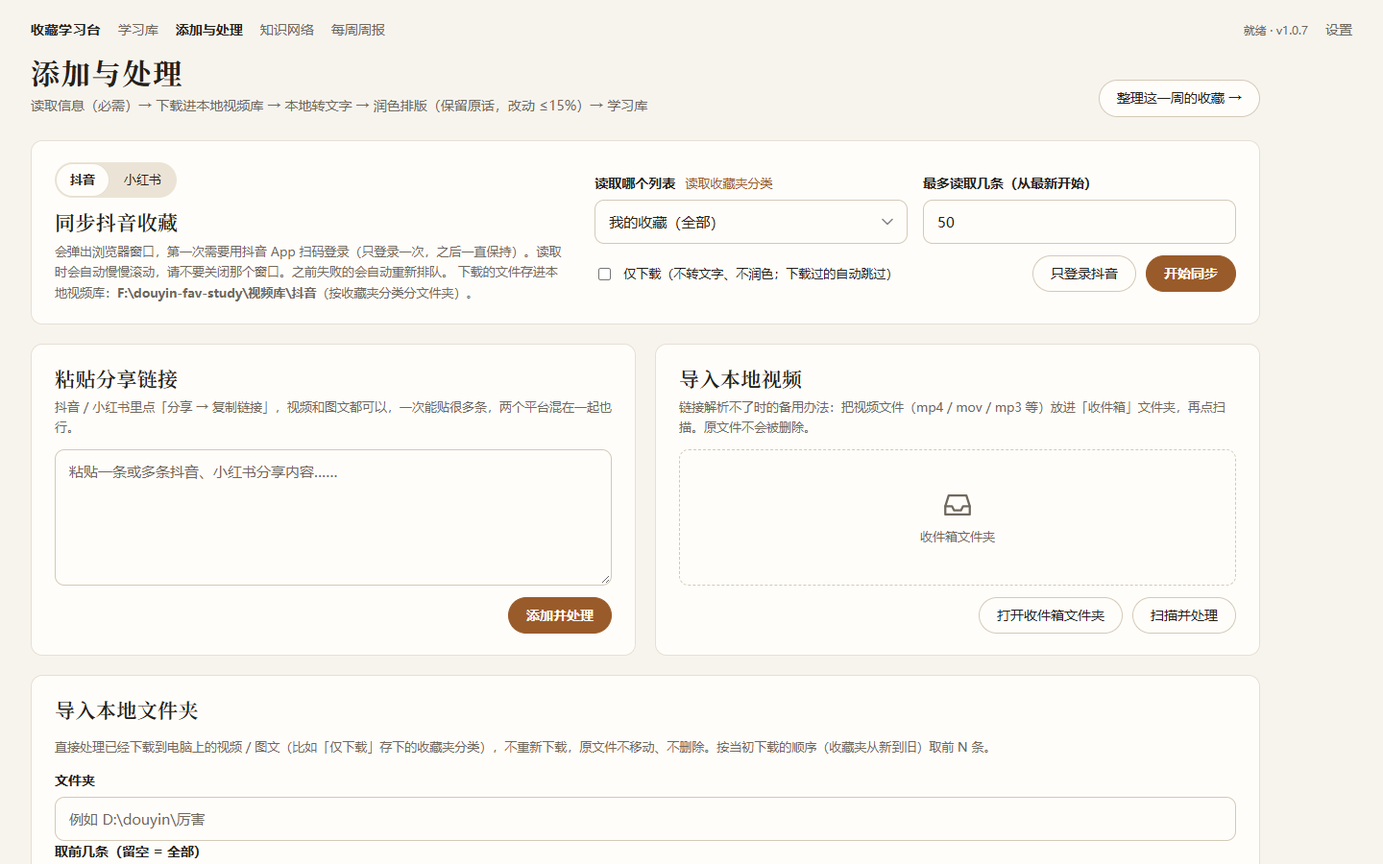
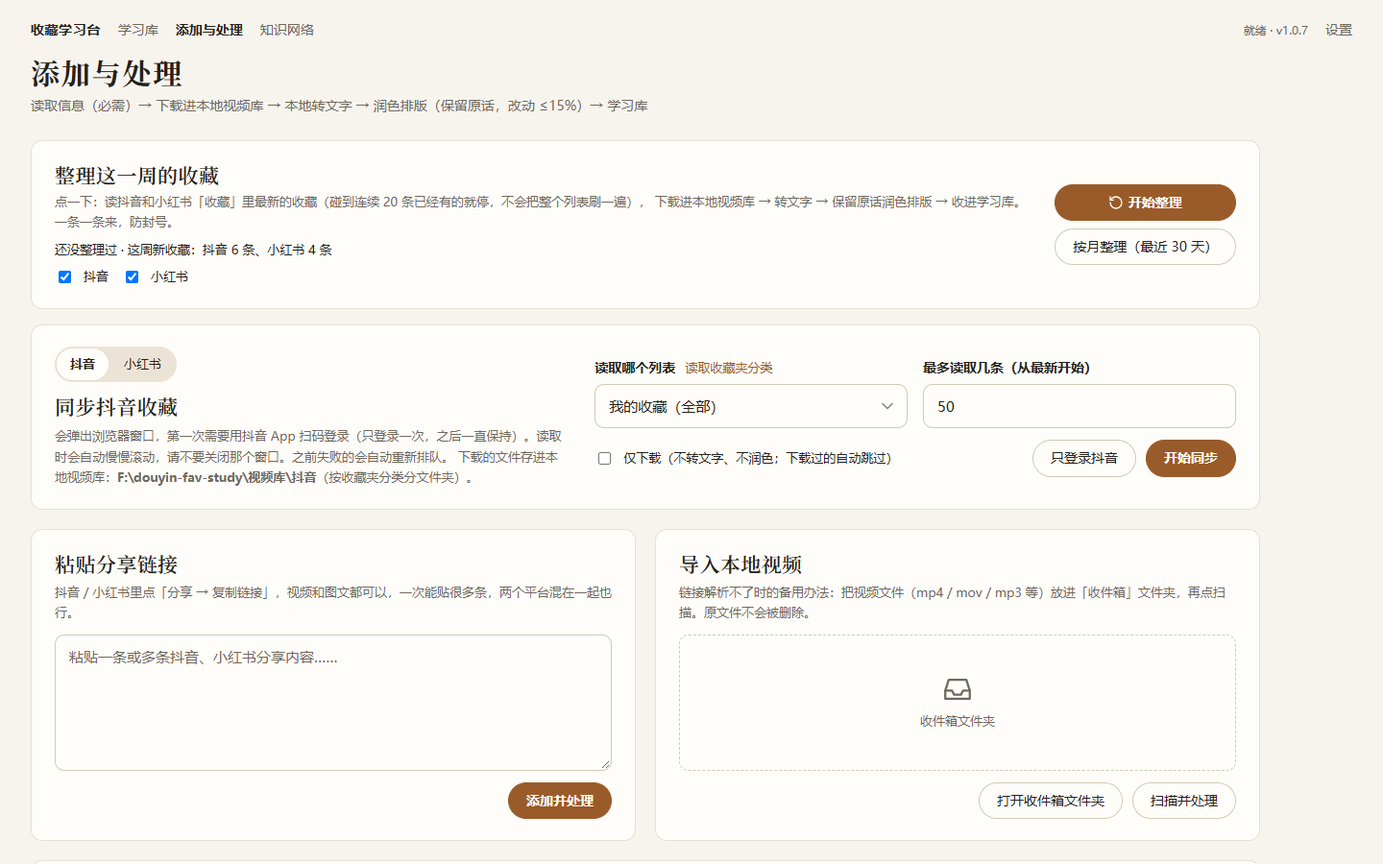
硬盘断线后自动重连；整理这一周挪到添加与处理；已跳过最近 50 条；加入专题自动填好
硬盘断线
- 数据库在 USB 移动硬盘上时，硬盘断开又连上以后后台线程的旧连接会一直报 disk I/O error。
  现在后台每做一件事之前换新连接（db.reset），做到一半遇到这个错误会重连并自动再试一次

界面
- 顶部导航和学习库信息条去掉「每周周报」入口；「整理这一周 / 按月整理」卡片放到「添加与处理」最上面
- 「已跳过」最前面加一组「最近 50 条」
- 「最近」里的文章保留「＋专题」；作者那一行的按钮统一靠右
- 加入专题时，新建专题按选中文章的大类和小主题自动填好（不带收藏分类那一级），两个框都能改；
  分类用 › 或 / 分级，没有的自动建，已有同名专题直接加进去

文档
- README 更新周报、最近相关的描述；截图按新导航重拍，周报截图换成「最近」

diff --git a/app/static/app.js b/app/static/app.js
@@ -728,9 +728,10 @@ async function renderProcess() {
   if (!syncPlat) syncPlat = s.sync_platform || "douyin";
   view.innerHTML = `
     <div class="head"><div><h1>添加与处理</h1><div class="muted">读取信息（必需）→ 下载进本地视频库 → 本地转文字 → 润色排版（保留原话，改动 ≤${s.max_change_pct || 15}%）→ 学习库</div></div>
-      <div class="spacer"></div><a class="btn" href="#/weekly">整理这一周的收藏 →</a></div>
+      </div>
     <div id="errSlot">${lastErrorBanner()}</div>
     ${bannerHtml()}
+    <div class="card weekly-sync" id="wkCard"></div>
     <div class="card sync-card">${syncCardHtml(s)}</div>
     <div class="panels">
       <div class="card col-card">
@@ -807,10 +808,56 @@ async function renderProcess() {
     } catch (e) { toast(e.message); }
   };
   $("#inboxScan").onclick = async () => { const r = await api("/api/inbox", {}); toast(r.added ? `新增 ${r.added} 个文件，开始处理` : "收件箱里没有新文件"); renderProcessLive(); };
+  drawWeekSync(); loadWeekInfo();
   renderProcessLive();
 }
 
+// ---- 整理这一周的收藏：一键把最近的新收藏下载、转写、润色进学习库（原来在「每周周报」页，现在放在这一页最上面）
+let wkInfo = null, wkKey = "";
+function weekSyncHtml() {
+  const r = wkInfo || {}, w = STATE?.worker || {}, running = w.task === "weekly_sync";
+  const when = (t) => new Date(t * 1000).toLocaleString("zh-CN", { hour12: false });
+  return `<div style="flex:1;min-width:240px"><h2 style="margin:0 0 4px">整理这一周的收藏</h2>
+      <div class="muted small">点一下：读抖音和小红书「收藏」里最新的收藏（碰到连续 20 条已经有的就停，不会把整个列表刷一遍），
+        下载进本地视频库 → 转文字 → 保留原话润色排版 → 收进学习库。一条一条来，防封号。</div>
+      <div class="small" style="margin-top:8px">${r.last_sync ? `上次整理：${when(r.last_sync)}` : wkInfo ? "还没整理过" : ""}
+        ${Object.keys(r.fav_new || {}).length ? ` · 这周新收藏：${Object.entries(r.fav_new).map(([p, n]) => `${PNAME[p] || p} ${n} 条`).join("、")}` : ""}</div>
+      <div class="row small" style="margin-top:8px;gap:14px">${["douyin", "xhs"].map((p) => `<label class="check"><input type="checkbox" class="wkPlat" value="${p}" checked> ${PNAME[p]}</label>`).join("")}</div>
+    </div>
+    ${running ? `<div class="row"><div class="spinner"></div><span class="small">${esc(w.stage || "整理中…")}</span><button class="btn sm danger" id="wkStop">停止整理</button></div>`
+      : `<div style="display:flex;flex-direction:column;gap:8px;align-items:stretch">
+           <button class="btn primary" id="wkSync">${ico("retry")}开始整理</button>
+           <button class="btn" id="wkMonth" title="抖音：按收藏时间，把最近 30 天收藏的全部过一遍。小红书接口不给收藏时间：读到连续 20 条以前就有的（旧库导入的、或 30 天前就见过的）就停，比每周整理多往下看一点">按月整理（最近 30 天）</button>
+           ${r.last_monthly ? `<span class="muted small">上次按月：${new Date(r.last_monthly * 1000).toLocaleDateString("zh-CN")}</span>` : ""}</div>`}`;
+}
+function drawWeekSync() {
+  const el = $("#wkCard");
+  if (!el) return;
+  const had = $$(".wkPlat"), checked = had.length ? had.filter((c) => c.checked).map((c) => c.value) : ["douyin", "xhs"];
+  el.innerHTML = weekSyncHtml();
+  $$(".wkPlat").forEach((c) => (c.checked = checked.includes(c.value)));  // 页面几秒重画一次，勾选不能丢
+  wkKey = JSON.stringify([STATE?.worker?.task === "weekly_sync", STATE?.worker?.stage, wkInfo?.last_sync]);
+  const start = async (full) => {
+    const platforms = $$(".wkPlat").filter((c) => c.checked).map((c) => c.value);
+    if (!platforms.length) return toast("至少选一个平台");
+    const ready = await loginGate(platforms);
+    if (!ready || !ready.length) return;
+    await api("/api/weekly/sync", full ? { platforms: ready, full: true, days: 30 } : { platforms: ready });
+    toast(full ? "开始按月整理：把最近 30 天的收藏完整过一遍，进度在下面" : "开始整理这一周的收藏：会弹出浏览器窗口读收藏列表，进度在下面", 4000);
+    await refreshState(); drawWeekSync(); renderProcessLive();
+  };
+  $("#wkSync") && ($("#wkSync").onclick = () => start(false));
+  $("#wkMonth") && ($("#wkMonth").onclick = () => start(true));
+  $("#wkStop") && ($("#wkStop").onclick = async () => {
+    const b = $("#wkStop"); b.disabled = true; b.textContent = "正在停止…";
+    await api("/api/stop", {}).catch(() => {});
+    toast("已发出停止：正在读的列表马上停，正在转写的这一条做完就停", 4000);
+  });
+}
+function loadWeekInfo() { api("/api/weekly?offset=0").then((r) => { wkInfo = r; drawWeekSync(); }).catch(() => {}); }
+
 // 已跳过的大类（按跳过原因归）
+const RECENT_SKIP = "最近 50 条";  // 特殊的一组：最新被跳过的 50 条（不管原因），放最前面、默认展开
 const SKIP_GROUPS = [
   ["重复", /重复/], ["视频已删除 / 私密", /已删除或设为私密/], ["超过 15 分钟的长视频", /分钟的长视频|长视频/],
   ["画面为主 / 没说话", /几乎没有说话|画面为主|没有声音|纯音乐|无对白/],
@@ -818,7 +865,7 @@ const SKIP_GROUPS = [
   ["以前的旧收藏（没处理过）", /以前就收藏的旧条目/], ["图文没内容", /图片|图文|文字（可能/],
   ["广告", /广告/], ["其他", /.*/],
 ];
-const SKIP_OPEN = new Set();  // 已跳过里点开的分组：页面几秒刷新一次，刷新后保持展开
+const SKIP_OPEN = new Set([RECENT_SKIP]);  // 已跳过里点开的分组：页面几秒刷新一次，刷新后保持展开
 const skipGroup = (reason) => (SKIP_GROUPS.find(([, re]) => re.test(reason || "")) || ["其他"])[0];
 function origLink(it) {
   if (it.url && /^https?:/.test(it.url)) return it.url;
@@ -862,6 +909,9 @@ function renderDownloads() {
 let lastListKey = "", lastDlKey = "";
 async function renderProcessLive(opt = {}) {
   if (!$("#statusCard")) return;
+  // 「整理这一周」那张卡：开始 / 结束 / 换了一条才重画；整理刚结束时顺便更新「上次整理」时间
+  const wkNow = JSON.stringify([STATE?.worker?.task === "weekly_sync", STATE?.worker?.stage, wkInfo?.last_sync]);
+  if (wkNow !== wkKey) { const ended = wkKey.startsWith("[true") && wkNow.startsWith("[false"); drawWeekSync(); if (ended) loadWeekInfo(); }
   // 定时刷新时，下载记录没变就不重画
   const dlKey = JSON.stringify([STATE.downloads, STATE.download_counts, STATE.download_dir]);
   if (!opt.poll || dlKey !== lastDlKey) { lastDlKey = dlKey; renderDownloads(); }
@@ -940,7 +990,11 @@ async function renderProcessLive(opt = {}) {
     // 已跳过：按原因分大类，默认收起，点开再看
     const groups = new Map(SKIP_GROUPS.map(([name]) => [name, []]));
     for (const it of items) groups.get(skipGroup(it.reason)).push(it);
-    $("#qlist").innerHTML = [...groups].filter(([, l]) => l.length).map(([name, l]) =>
+    // 最近 50 条：列表本来就是新的在前（按加入顺序），取前 50。每条后面照样写着跳过原因；这一组不放「整组」按钮，免得误操作
+    const recent = items.slice(0, 50);
+    $("#qlist").innerHTML = `<details class="fold skipgrp" data-g="${RECENT_SKIP}"${SKIP_OPEN.has(RECENT_SKIP) ? " open" : ""}>`
+      + `<summary><b>${RECENT_SKIP}</b> <span class="muted">最新被跳过的，新的在前</span></summary>${recent.map(rowHtml).join("")}</details>`
+      + [...groups].filter(([, l]) => l.length).map(([name, l]) =>
       `<details class="fold skipgrp" data-g="${esc(name)}"${SKIP_OPEN.has(name) ? " open" : ""}><summary><b>${esc(name)}</b> <span class="muted">${l.length} 条</span>`
       + `<span class="grp-acts"><button class="btn sm" data-ga="force_include" data-ids="${l.map((x) => x.id).join(",")}" data-n="${esc(name)}">整组加入整理</button>`
       + `<button class="btn sm ghost" data-ga="delete" data-ids="${l.map((x) => x.id).join(",")}" data-n="${esc(name)}">整组删除</button></span></summary>`
@@ -1228,7 +1282,7 @@ function updateInfoHtml(up) {
 let weeklyDue = null;
 (async () => {
   await refreshState();
-  try { weeklyDue = await api("/api/weekly/due"); $("#navWeekly").hidden = !weeklyDue.due; } catch {}
+  // （每周周报的入口已经去掉：不再去问「上周周报出来没有」）
   // 新手引导没做完先去引导页；否则首页就是学习库（其他页面都从学习库顶部的导航进）
   if (!location.hash) {
     if (!guideActive()) { location.replace("/reader"); return; }
@@ -1854,7 +1908,7 @@ async function renderWeekly(offset) {
   view.innerHTML = `<div class="sk sk-h1"></div><div class="sk sk-block" style="height:140px"></div><div class="sk sk-block" style="height:260px"></div>`;
   const r = await api("/api/weekly?offset=" + offset);
   if (weeklyDue?.due && r.week === weeklyDue.week) {  // 看过了，不再提示
-    weeklyDue.due = false; $("#navWeekly").hidden = true;
+    weeklyDue.due = false;
     api("/api/weekly/seen", { week: r.week }).catch(() => {});
   }
   const tile = (n, label, sub = "") => `<div class="wtile"><b>${n}</b><span>${label}</span>${sub ? `<em>${sub}</em>` : ""}</div>`;

diff --git a/app/static/index.html b/app/static/index.html
@@ -24,7 +24,6 @@
       <a href="/reader" data-nav="library">学习库</a>
       <a href="#/process" data-nav="process"><svg viewBox="0 0 24 24" fill="none" stroke="currentColor" stroke-width="1.7" stroke-linecap="round" stroke-linejoin="round"><circle cx="12" cy="12" r="9"/><path d="M12 8v8M8 12h8"/></svg>添加与处理 <span class="pill" id="navQueue" hidden></span></a>
       <a href="#/graph" data-nav="graph"><svg viewBox="0 0 24 24" fill="none" stroke="currentColor" stroke-width="1.7" stroke-linecap="round" stroke-linejoin="round"><circle cx="6" cy="7" r="2.5"/><circle cx="18" cy="6" r="2.5"/><circle cx="12" cy="18" r="2.5"/><path d="M8.3 8.2 10.8 16M15.9 7.6 13.2 16M8.5 6.8l7-.6"/></svg>知识网络</a>
-      <a href="#/weekly" data-nav="weekly"><svg viewBox="0 0 24 24" fill="none" stroke="currentColor" stroke-width="1.7" stroke-linecap="round" stroke-linejoin="round"><rect x="3" y="4.5" width="18" height="16" rx="2.5"/><path d="M3 9.5h18M8 3v3M16 3v3M8 14h2M14 14h2M8 17h2"/></svg>每周周报 <span class="pill" id="navWeekly" hidden>新</span></a>
     </nav>
     <nav class="nav nav-bottom">
       <a href="#/settings" data-nav="settings"><svg viewBox="0 0 24 24" fill="none" stroke="currentColor" stroke-width="1.7" stroke-linecap="round" stroke-linejoin="round"><path d="M12 3v3m0 12v3M3 12h3m12 0h3M5.6 5.6l2.1 2.1m8.6 8.6 2.1 2.1M5.6 18.4l2.1-2.1m8.6-8.6 2.1-2.1"/><circle cx="12" cy="12" r="3.2"/></svg>设置</a>
@@ -63,6 +62,6 @@
 </div>
 
 <div class="toast" id="toast" hidden></div>
-<script src="/static/app.js?v=14"></script>
+<script src="/static/app.js?v=15"></script>
 </body>
 </html>

diff --git a/app/reader_topics.py b/app/reader_topics.py
@@ -83,7 +83,7 @@ article.tpsel button.tpadd{background:var(--acc);color:var(--onfg);border-color:
 #tppick button:hover{border-color:var(--acc);color:var(--acc)}#tppick button small{color:var(--mut);margin-left:6px}
 .tp-new{display:flex;flex-wrap:wrap;gap:8px;align-items:center;border-top:1px dashed var(--line);padding-top:12px}
 .tp-new select,.tp-new input{font:inherit;padding:5px 10px;border:1px solid var(--line);border-radius:8px;background:var(--bg);color:var(--fg)}
-.tp-new input{flex:1;min-width:140px}
+.tp-new input{flex:1;min-width:140px}.tp-new>span{flex:0 0 100%;color:var(--mut);font-size:13px}.tp-new #tppath{flex:2}
 .tp-foot{display:flex;justify-content:flex-end;margin-top:12px}
 .tp-wrap{display:grid;grid-template-columns:minmax(0,1fr) 360px;gap:28px;align-items:start}
 .tp-note{position:sticky;top:64px;height:calc(100vh - 170px);display:flex;flex-direction:column;border:1px solid var(--line);
@@ -99,7 +99,9 @@ article.tpsel button.tpadd{background:var(--acc);color:var(--onfg);border-color:
 
 HTML = """<div id=tpbar class=gone>已选 <b id=tpn>0</b> 条<button id=tpgo>加入专题…</button><button id=tpclr>取消选择</button></div>
 <dialog id=tpdlg><h3>加入哪个专题？</h3><div id=tppick></div>
-<div class=tp-new><span>新建专题：</span><select id=tpnode></select><input id=tpname placeholder=专题名><button class=tp-bt id=tpnew>新建并加入</button></div>
+<div class=tp-new><span>新建专题（已经按这几篇现在的大类和小主题填好，两个框都可以改）：</span>
+<input id=tppath list=tppaths placeholder="分类，比如 网球；要分级就用 › 隔开" title="专题放在哪个分类下面；用 › 或 / 分级，最多三级，没有的会自动建"><datalist id=tppaths></datalist>
+<input id=tpname placeholder=专题名><button class=tp-bt id=tpnew>新建并加入</button></div>
 <div class=tp-foot><button class=tp-bt id=tpcancel>取消</button></div></dialog><div id=tptoast class=gone></div>
 <div id=selbar class=gone></div>
 <dialog id=nlpick><h3>加入哪个专题的笔记？</h3><blockquote id=nlq></blockquote><div id=nllist></div>
@@ -201,19 +203,40 @@ document.addEventListener('click',e=>{const b=e.target.closest('button.tpadd');i
 function clearSel(){TP.sel.clear();$$('article.tpsel').forEach(a=>{a.classList.remove('tpsel');const b=a.querySelector('button.tpadd');if(b)b.textContent='＋专题'});bar()}
 $('#tpclr').onclick=clearSel;
 const dlg=$('#tpdlg');
-function nodeOpts(pid,lv){return kids(pid).map(n=>`<option value=${n.id}>${'　'.repeat(lv)}${esc(n.name)}</option>`+nodeOpts(n.id,lv+1)).join('')}
-$('#tpgo').onclick=()=>{const ts=TP.data.topics;
- $('#tppick').innerHTML=ts.length?ts.map(t=>`<button data-t=${t.id}>${esc(path(t.node_id).concat(t.name).join(' › '))}<small>${t.items.length} 条</small></button>`).join('')
-  :`<p class=tp-empty>还没有专题。可以在下面直接新建一个。</p>`;
- const opts=nodeOpts(null,0);$('#tpnode').innerHTML=opts||'<option value="">（先新建一个一级分类）</option>';
- $('#tpnode').insertAdjacentHTML('beforeend','<option value=new>＋ 新建一级分类…</option>');
- $('#tpname').value='';dlg.showModal()};
+// 加入专题时，按选中的文章现在的细分自动填好一个专题：分类 = 大类（不带「爱好 / 厉害」这一级收藏分类），专题名 = 小主题；两个框都可以改
+const SEP=/\s*[›>\/／]\s*/;
+function catOf(id){const a=document.getElementById('a'+id);if(!a)return null;
+ const sec=a.closest('section.tab'),tb=$(`.tabs button[data-tab="${sec.id}"]`);let h2=null,h3=null;
+ for(let n=a.previousElementSibling;n;n=n.previousElementSibling){if(!h3&&n.tagName==='H3')h3=n;if(n.tagName==='H2'){h2=n;break}}
+ const t=x=>x?x.firstChild.textContent.trim():'';
+ return [tb?tb.firstChild.textContent.trim():'',t(h2).replace(/^[一二三四五六七八九十]+、\s*/,''),t(h3)]}
+function suggest(){const cnt=new Map();  // 选了好几篇、分类不一样时，取最多的那个
+ for(const id of TP.sel){const c=catOf(id);if(!c)continue;const k=c.join('\u0001');cnt.set(k,(cnt.get(k)||0)+1)}
+ const best=[...cnt].sort((x,y)=>y[1]-x[1])[0];if(!best)return{path:[],name:''};
+ const [tab,c2,c3]=best[0].split('\u0001');return{path:[c2||tab].filter(Boolean),name:c3||c2||tab}}
+async function refetch(){TP.data=await fetch('/api/topics').then(r=>r.json())}
+async function ensureNode(names){let pid=null;  // 分类一级一级往下找，没有的就建
+ for(const nm of names){let n=kids(pid).find(x=>x.name===nm);
+  if(!n){const r=await post({op:'node_create',parent_id:pid,name:nm});await refetch();n=node(r.id)}
+  pid=n.id}
+ return pid}
+$('#tpgo').onclick=()=>{const ts=TP.data.topics,sg=suggest(),full=t=>path(t.node_id).concat(t.name).join(' › ');
+ const hit=ts.find(t=>full(t)===sg.path.concat(sg.name).join(' › ')),list=hit?[hit,...ts.filter(t=>t!==hit)]:ts;
+ $('#tppick').innerHTML=list.length?list.map(t=>`<button data-t=${t.id}>${esc(full(t))}<small>${t.items.length} 条</small>`
+   +(t===hit?'<small>· 和现在的分类一样</small>':'')+'</button>').join('')
+  :`<p class=tp-empty>还没有专题。下面已经按现在的分类填好了一个，可以直接新建。</p>`;
+ $('#tppaths').innerHTML=TP.data.nodes.map(n=>`<option value="${esc(path(n.id).join(' › '))}">`).join('');
+ $('#tppath').value=sg.path.join(' › ');$('#tpname').value=sg.name;dlg.showModal()};
 async function addTo(tid){const ids=[...TP.sel];const r=await post({op:'add',topic_id:tid,ids});dlg.close();clearSel();await load();
  const t=topic(tid);toast(`已加入「${t?t.name:''}」：新增 ${r.added} 条`+(ids.length>r.added?`（${ids.length-r.added} 条本来就在里面）`:''))}
 $('#tppick').onclick=e=>{const b=e.target.closest('button[data-t]');if(b)addTo(+b.dataset.t).catch(err=>alert(err.message))};
-$('#tpnew').onclick=async()=>{try{let nid=$('#tpnode').value;const name=$('#tpname').value.trim();if(!name){$('#tpname').focus();return}
- if(nid==='new'||!nid){const nn=prompt('一级分类的名字');if(!nn)return;nid=(await post({op:'node_create',parent_id:null,name:nn})).id}
- const r=await post({op:'topic_create',node_id:+nid,name});await load();await addTo(r.id)}catch(err){alert(err.message)}};
+$('#tpnew').onclick=async()=>{try{const name=$('#tpname').value.trim(),names=$('#tppath').value.split(SEP).map(s=>s.trim()).filter(Boolean);
+ if(!names.length){$('#tppath').focus();return}if(!name){$('#tpname').focus();return}
+ const max=TP.data.max_depth||3;if(names.length>max){alert(`分类最多 ${max} 级，现在写了 ${names.length} 级`);return}
+ const nid=await ensureNode(names);await refetch();
+ const ex=TP.data.topics.find(t=>t.node_id===nid&&t.name===name);  // 这个分类下已经有同名专题：直接加进去，不重复建
+ const tid=ex?ex.id:(await post({op:'topic_create',node_id:nid,name})).id;
+ await load();await addTo(tid)}catch(err){alert(err.message)}};
 $('#tpcancel').onclick=()=>dlg.close();
 // ---- 代刷
 $('#tpfcancel').onclick=()=>$('#tpfeed').close();

diff --git a/app/reader_extra.py b/app/reader_extra.py
@@ -22,6 +22,8 @@ button.rd{border:1px solid var(--line);background:none;color:var(--mut);border-r
  line-height:1.7;cursor:pointer;flex:none;margin-right:8px;opacity:.55}
 button.rd:hover{opacity:1;color:var(--acc);border-color:var(--acc)}
 article.read button.rd{opacity:1;color:var(--acc);border-color:var(--acc)}
+/* 作者那一行：左边是作者，按钮全部靠右排在一起（精品 / 最近 / 专题里少了某个按钮时，别的按钮也不会散到中间去） */
+.src>span:first-child{margin-right:auto}
 article.read h5{color:var(--mut)}
 .side .tart a.read::after{content:" ✓";font-size:11px}
 body.f-unread article.read:not(.keep),body.f-week article:not(.wk){display:none}
@@ -147,7 +149,7 @@ function buildRecent(){const nav=$('#rcnav'),v=$('#rcview');if(!v)return;
   body+=`<h3 id="${hid}">${g.d}<span class=cnt>${g.ids.length}</span>${PLAYBTN_HTML}</h3>`+g.ids.map(id=>`<i data-clone="${id}"></i>`).join('')}
  nav.innerHTML=navH+'</div>';v.innerHTML=body;
  v.querySelectorAll('i[data-clone]').forEach(ph=>{const id=ph.dataset.clone,c=document.getElementById('a'+id).cloneNode(true);
-  c.id='rca'+id;c.classList.remove('now','tpsel','keep');c.querySelectorAll('button.tpadd').forEach(x=>x.remove());
+  c.id='rca'+id;c.classList.remove('now','keep');  // 「＋专题」留着（选中状态也跟原处一致）：在这里也能挑文章进专题
   if(QT.length){const t=TXT&&TXT.get(id);c.classList.toggle('hide',!(t&&QT.every(w=>t.includes(w))))}else c.classList.remove('hide');
   ph.replaceWith(c)})}
 document.addEventListener('click',e=>{if(e.target.closest('.tabs button[data-tab=trecent]'))buildRecent()});
@@ -195,7 +197,7 @@ function bar(){if(!ib.unread)return;let u=0,w=0;
  ib.unread.innerHTML=`<a href="#" data-mode=unread class="${MODE==='unread'?'act':''}" title="读完一篇点「标为已读」；点这里只看还没读的">`
   +(MODE==='unread'?`只看未读 ${u.toLocaleString()} ✕`:`未读 ${u.toLocaleString()}`)+'</a>';
  ib.week.innerHTML=(w||MODE==='week'?`<a href="#" data-mode=week class="${MODE==='week'?'act':''}" title="只看这一周新进学习库的">`
-  +(MODE==='week'?`只看本周新增 ${w} ✕`:`本周新增 ${w}`)+'</a>　':'')+'<a href="/#/weekly">周报</a>';
+  +(MODE==='week'?`只看本周新增 ${w} ✕`:`本周新增 ${w}`)+'</a>':'');
  const sec=activeSec();
  ib.q.textContent=!QT.length?'':!HITS.total?'没有搜到':`搜到 ${HITS.total} 篇`+(isContent(sec)&&!HITS.per[sec.id]?'，这个分类里没有，按 Enter 跳过去':'')}
 document.addEventListener('click',e=>{const a=e.target.closest('#ibar a[data-mode]');if(!a)return;e.preventDefault();setMode(a.dataset.mode)});

diff --git a/app/worker.py b/app/worker.py
@@ -9,6 +9,7 @@ import urllib.request
 import queue
 import random
 import shutil
+import sqlite3
 import threading
 import time
 import traceback
@@ -137,6 +138,9 @@ class Worker:
             self.state.update(busy=True, task=cmd, stage="", item_id=None)
             if cmd in ("login", "sync"):
                 self.state["last_error"] = None
+            # 这个线程一直活着：硬盘（尤其是 USB 移动硬盘）断开又连上以后，手里的旧数据库连接会一直报 disk I/O error。
+            # 每做一件事之前换一个新连接，就不会被上一次的断线拖累
+            db.reset()
             try:
                 if cmd == "process":
                     self._process_all(kw.get("ids"))
@@ -160,9 +164,17 @@ class Worker:
                 self.log(f"⚠ {e}")
                 self._set_error(cmd, str(e))
             except Exception as e:
-                self.log(f"⚠ 出错了：{e}")
-                self._set_error(cmd, f"出错了：{e}")
-                traceback.print_exc()
+                io_err = isinstance(e, sqlite3.Error) and any(k in str(e) for k in ("disk I/O error", "unable to open database"))
+                if io_err and not kw.get("_retried"):
+                    # 做到一半硬盘断了一下：重新连上数据库，把这件事自动再做一次
+                    self.log("⚠ 读写数据库时硬盘断了一下（disk I/O error）。已重新连接，自动再试一次……")
+                    db.reset()
+                    time.sleep(3)
+                    self.cmds.put((cmd, dict(kw, _retried=True)))
+                else:
+                    self.log(f"⚠ 出错了：{e}" + ("（硬盘还是读写不了：看看移动硬盘的线和供电，再点一次）" if io_err else ""))
+                    self._set_error(cmd, f"出错了：{e}")
+                    traceback.print_exc()
             finally:
                 self._service_urgent()
                 if self.cmds.empty():

diff --git a/app/reader_build.py b/app/reader_build.py
@@ -199,7 +199,7 @@ def build(fs=None):
     P = ["<!doctype html><html lang=zh><meta charset=utf-8><meta name=viewport content='width=device-width,initial-scale=1'>",
          f"<title>{title} · 收藏学习台</title><link rel=icon href='/static/logo.svg'><style>{CSS}{TOPBAR_CSS}{RT.CSS}{RX.CSS}</style><body><main>",
          "<nav class=topbar><b>收藏学习台</b><a class=cur href='/reader'>学习库</a><a href='/#/process'>添加与处理</a>"
-         "<a href='/#/graph'>知识网络</a><a href='/#/weekly'>每周周报</a><span class=sp></span><a href='/#/settings'>设置</a></nav>",
+         "<a href='/#/graph'>知识网络</a><span class=sp></span><a href='/#/settings'>设置</a></nav>",
          f"<header><h1>{title}</h1>",
          RX.ibar(sum(1 for x in qc if x['id'] not in hidden), time.strftime('%Y-%m-%d %H:%M')),
          "<input id=q type=search placeholder='搜索标题、金句、作者、正文……（按 / 聚焦，空格隔开多个词）' autocomplete=off></header><nav class=tabs>"]

diff --git a/app/db.py b/app/db.py
@@ -70,6 +70,18 @@ def conn():
     return c
 
 
+def reset():
+    """丢掉当前线程的数据库连接，下次用时重新打开。
+    硬盘断开又连上（USB 移动硬盘常见）以后，旧连接手里的文件句柄已经失效，会一直报 disk I/O error；换个新连接就好了。"""
+    c = getattr(_local, "conn", None)
+    _local.conn = None
+    if c is not None:
+        try:
+            c.close()
+        except Exception:
+            pass
+
+
 EXTRA_COLUMNS = {
     "segments_json": "TEXT",   # 带时间戳的文字稿分段
     "deep_json": "TEXT",       # 精读结果

diff --git a/README.md b/README.md
@@ -28,7 +28,7 @@ Turn the videos you save on Douyin and Xiaohongshu into a local, readable librar
 | **学习库 = 阅读版**：一篇篇排好的文章，侧边目录，原视频弹窗播放，一个分类连播 / 洗牌 | **划线和笔记**：选中文字一键三连（复制 + 高亮 + 加入专题笔记），高亮会保存 |
 | **专题整理**：自建三级分类和专题，从任何分类挑视频进来集中学；每个专题一份随手记的笔记 | **复制到桌面**：专题里的视频按顺序编号复制到「专题学习」文件夹，方便剪辑 |
 | **代刷**：按关键词用抖音、小红书自己的搜索补新视频进专题，插队处理，AI 判断无关的自动拿出 | **精品**：给文章点星，复制一份到「精品」tab，保留原分类作目录 |
-| **每周 / 按月整理**：一键增量同步两个平台的新收藏，下载、转写、润色，生成周报；随时可以停 | **防封号**：一条一条来，小红书有冷却、每日上限、随机间隔；整理前先检查登录 |
+| **每周 / 按月整理**：一键增量同步两个平台的新收藏，下载、转写、润色；随时可以停 | **防封号**：一条一条来，小红书有冷却、每日上限、随机间隔；整理前先检查登录 |
 | **回收站**：删除可以恢复，也可以彻底删除；代刷来的统一先放回收站，不混进你的收藏 | **去重**：每条收藏一个唯一的 uid（平台 + 作品 ID，或本地文件指纹），同一个视频进不来两次 |
 
 <table>
@@ -46,7 +46,7 @@ Turn the videos you save on Douyin and Xiaohongshu into a local, readable librar
 </tr>
 <tr>
 <td><img src="docs/screenshots/process.png" alt="添加与处理"><br><sub>添加与处理：抖音 / 小红书切换，同步收藏、粘贴链接、导入本地视频</sub></td>
-<td><img src="docs/screenshots/weekly.png" alt="每周周报"><br><sub>每周周报：一键整理这一周 / 最近 30 天的收藏</sub></td>
+<td><img src="docs/screenshots/recent.png" alt="最近"><br><sub>最近：最新进学习库的 100 篇，按天分组</sub></td>
 </tr>
 </table>
 
@@ -164,7 +164,7 @@ uv sync
 |---|---|
 | 粘贴分享链接 | 抖音、小红书「分享 → 复制链接」，一次可以贴很多条，两个平台混在一起也行 |
 | 同步收藏 | 「添加与处理」顶部切到抖音或小红书，读「我的收藏」或某个收藏夹 / 专辑 |
-| 每周整理 | 「每周周报」里点「开始整理」：读两个平台最新的收藏，碰到连续 20 条已经有的就停 |
+| 每周整理 | 「添加与处理」最上面点「开始整理」：读两个平台最新的收藏，碰到连续 20 条已经有的就停 |
 | 按月整理 | 把最近 30 天的收藏完整过一遍（抖音按真实收藏时间；小红书接口不给收藏时间，按程序第一次看到的时间） |
 | 导入本地视频 | 已经下载到电脑上的视频 / 图文文件夹，直接转写，不重新下载 |
 
@@ -203,7 +203,7 @@ uv sync
 
 ### 其他
 
-- **每周周报**：这一周新收藏、学会、精读、测验，连续学习几周
+- **最近**：学习库最前面的特殊分类，最新进库的 100 篇，按天分组
 - **知识网络**、**带我精读**：有共同关键词的笔记连成图；单条笔记可以让 AI 带着精读、出题
 
 ---

diff --git a/CHANGELOG.md b/CHANGELOG.md
@@ -20,6 +20,18 @@
 - 「添加与处理」「知识网络」「每周周报」「设置」和笔记详情都换成学习库的风格（米色纸面、棕色强调色、宋体标题），左侧栏改成和学习库一样的顶部一行导航；功能不变（`static/skin.css`）
 - 打开首页直接进学习库，其他页面从顶部导航进；导航顺序改为 学习库 · 添加与处理 · 知识网络 · 每周周报 · 设置
 
+**整理这一周挪到「添加与处理」 · Weekly sync moved**
+- 顶部导航去掉「每周周报」；「整理这一周的收藏 / 按月整理」那张卡放到「添加与处理」页最上面，带进度和「停止整理」。学习库信息条里的「周报」链接也去掉了（周报页面本身还在，只是不再有入口）
+- 「已跳过」最前面加一组「最近 50 条」：最新被跳过的 50 条，新的在前，默认展开，每条照样写着跳过原因
+
+**硬盘断线 · Disk hiccups**
+- 数据库放在 USB 移动硬盘上时，硬盘断开又连上以后，后台线程手里的旧连接会一直报 `disk I/O error`，点什么都没反应。现在后台每做一件事之前都换一个新连接；做到一半遇到这个错误会重新连接并自动再试一次
+
+**加入专题自动填好 · Topic suggestion**
+- 点「加入专题…」时，「新建专题」已经按选中文章现在的细分填好：分类 = 大类（不带「爱好 / 厉害」这一级），专题名 = 小主题（选了好几篇、分类不同时取最多的那个）。两个框都可以改；分类用 › 或 / 分级，没有的会自动建，这个分类下已有同名专题就直接加进去
+- 已有专题里如果有一个和现在的分类一模一样，会排在最前面并标出来
+- 「最近」里的文章也能点「＋专题」；作者那一行的按钮统一靠右排
+
 **最近 100 · Recent**
 - 学习库最前面多了一个特殊分类「最近」：最新进学习库的 100 篇，新的在前，按天分组，左侧按日期跳转；连播、洗牌、精品、已读、删除、搜索都和别的分类一样（回收站里的不算）
 
